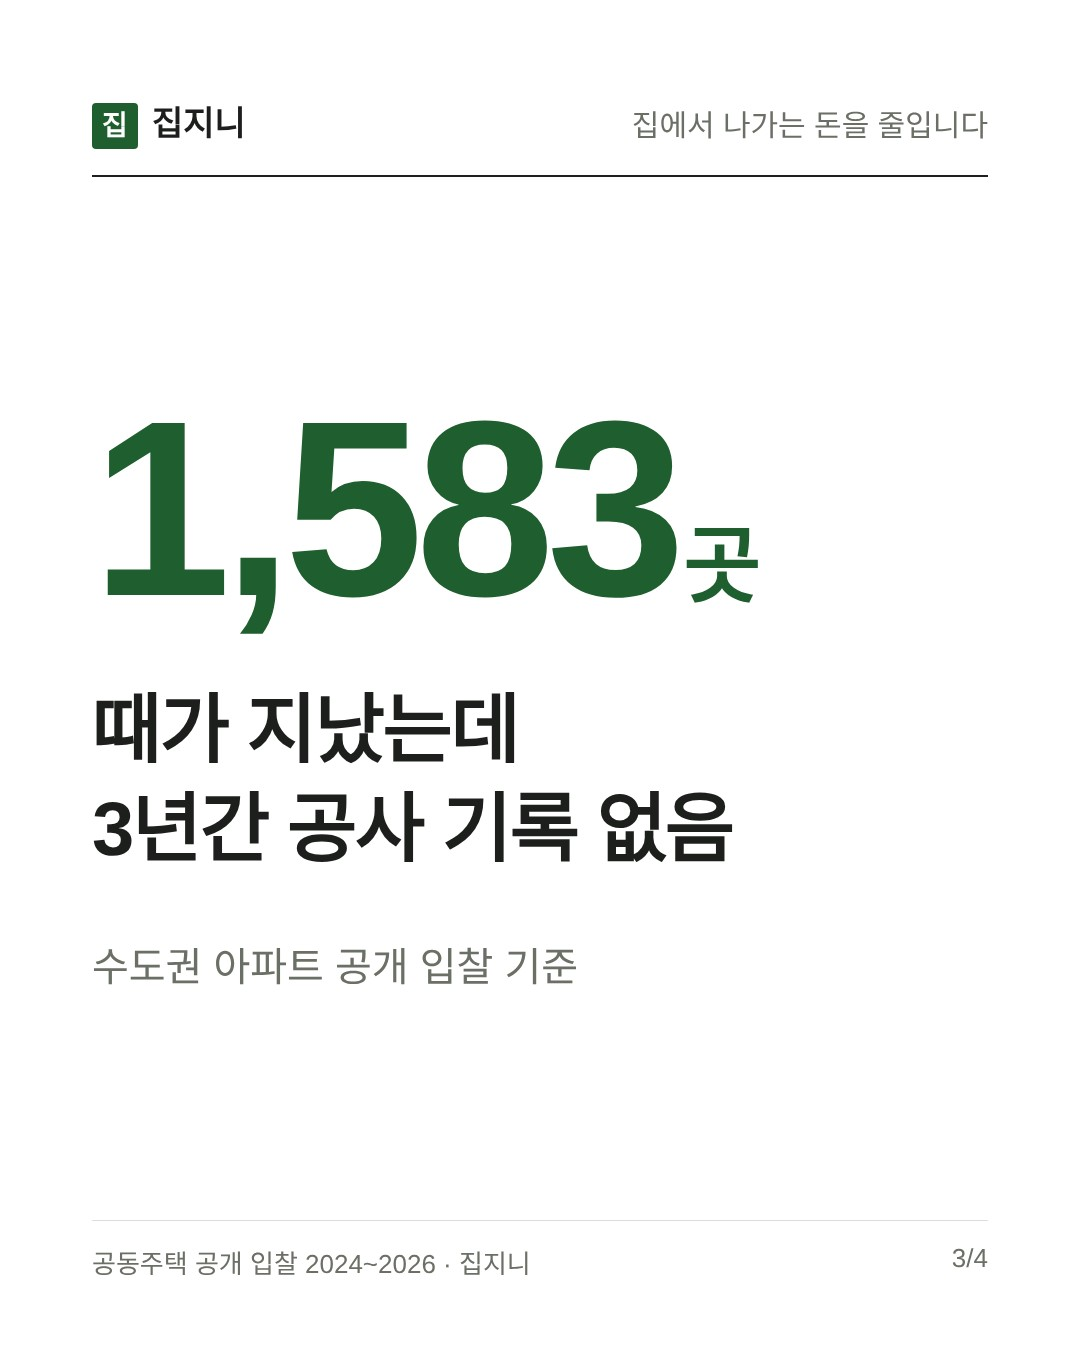
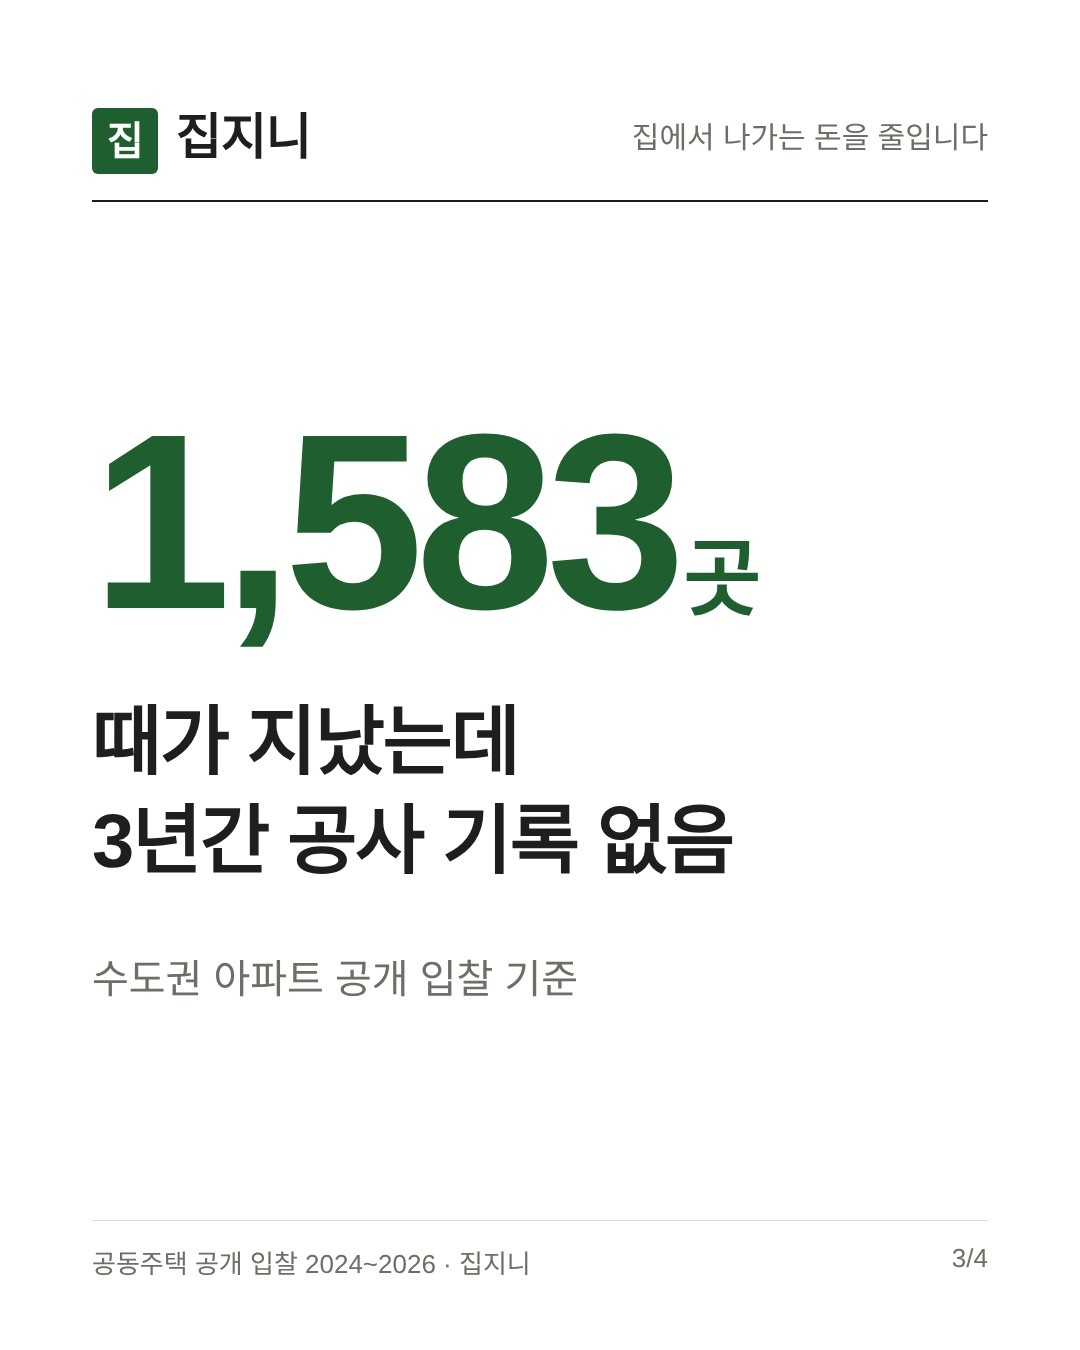
마케팅: 로고 크게 + jipjini.com 병기(카드·영상), 검수 규칙 고침 (#377)
Claude-Session: https://claude.ai/code/session_01EWAutn6yu8RhtVwgyvFZah

diff --git a/tools/mk/video/src/Maru.tsx b/tools/mk/video/src/Maru.tsx
@@ -41,8 +41,8 @@ const Punch: React.FC<{children: React.ReactNode; bg: string}> = ({children, bg}
 };
 
 const Brand: React.FC<{dark?: boolean}> = ({dark}) => (
-  <div style={{position: 'absolute', top: 120, left: 90, display: 'flex', alignItems: 'center', gap: 18, fontSize: 40, fontWeight: 700, color: dark ? '#fff' : INK}}>
-    <span style={{width: 60, height: 60, background: dark ? YEL : GREEN, color: dark ? INK : '#fff', borderRadius: 6, display: 'inline-flex', alignItems: 'center', justifyContent: 'center', fontSize: 36}}>집</span>집지니</div>
+  <div style={{position: 'absolute', top: 120, left: 90, display: 'flex', alignItems: 'center', gap: 22, fontSize: 64, fontWeight: 700, letterSpacing: -1, color: dark ? '#fff' : INK}}>
+    <span style={{width: 92, height: 92, background: dark ? YEL : GREEN, color: dark ? INK : '#fff', borderRadius: 6, display: 'inline-flex', alignItems: 'center', justifyContent: 'center', fontSize: 56}}>집</span>집지니</div>
 );
 const Foot: React.FC<{dark?: boolean; t: string}> = ({dark, t}) => (
   <div style={{position: 'absolute', bottom: 150, left: 90, right: 90, fontSize: 32, color: dark ? '#A9AEA5' : '#6B7067'}}>{t}</div>
@@ -197,7 +197,10 @@ export const Maru: React.FC = () => {
     {f >= T.cta + 15 && <div style={{position: 'absolute', left: 90, top: 640}}>
       <Pop at={T.cta + 15} size={170}>우리 집은</Pop>
       <div style={{fontSize: 190, fontWeight: 700, letterSpacing: -4, lineHeight: 1.08}}><Hit at={T.cta + 30} color={LIME} pre={false}>얼마?</Hit></div>
-      <div style={{marginTop: 70, fontSize: 64, fontWeight: 700, color: '#fff', borderBottom: `8px solid ${LIME}`, display: 'inline-block', paddingBottom: 10}}><Type t="집지니" at={T.cta + 45} /></div></div>}
+      <div style={{marginTop: 80, display: 'flex', alignItems: 'center', gap: 34, transform: `scale(${interpolate(f - T.cta - 45, [0, 8], [0.6, 1], {extrapolateLeft: 'clamp', extrapolateRight: 'clamp', easing: Easing.out(Easing.back(2))})})`, transformOrigin: 'left center', opacity: f >= T.cta + 45 ? 1 : 0}}>
+        <span style={{width: 190, height: 190, background: YEL, color: INK, borderRadius: 16, display: 'inline-flex', alignItems: 'center', justifyContent: 'center', fontSize: 120, fontWeight: 700}}>집</span>
+        <div><div style={{fontSize: 170, fontWeight: 700, color: '#fff', letterSpacing: -5, lineHeight: 1}}>집지니</div>
+        <div style={{marginTop: 18, fontSize: 66, fontWeight: 700, color: LIME}}>jipjini.com</div></div></div></div>}
     <Foot dark t="84㎡ 수도권 2,026개 단지 가운데값 · 턴키는 추정 · 부가세 10% 별도" />
     <Flash at={hits} />
     <div style={{position: 'absolute', top: 0, left: 0, height: 12, width: `${(f / T.end) * 100}%`, background: LIME}} />
@@ -210,6 +213,6 @@ export const Maru: React.FC = () => {
     {A(T.save - 4, 'whoosh_b', 0.45)}{A(T.save + 15, 'chips', 0.7)}{A(T.save + 25, 'chips2', 0.5)}{A(T.save + 45, 'drop808', 0.5)}{A(T.save + 45, 'm_woo', 0.9)}
     {A(T.car - 2, 'carhorn', 0.55)}{A(T.maru - 4, 'whoosh_c', 0.55)}{A(T.maru, 'm_gah', 1)}{A(T.maru + 15, 'm_hehe', 1)}
     {A(T.cta - 8, 'tapestop', 0.5)}{A(T.cta + 15, 'pluck', 0.6)}{A(T.cta + 30, 'thud', 0.9)}{A(T.cta + 30, 'qup', 0.55)}
-    {[2, 4, 6].map((k, i) => <React.Fragment key={'u' + k}>{A(T.cta + 45 + k, ['key2', 'key1', 'key3'][i % 3], 0.35)}</React.Fragment>)}
+    {A(T.cta + 45, 'reveal', 0.6)}
   </AbsoluteFill>;
 };

diff --git a/tools/mk/cards.py b/tools/mk/cards.py
@@ -19,7 +19,7 @@ body{{width:1080px;height:1350px;background:#fff;color:#1C1F1B;font-family:P,san
 .m{{flex:1;display:flex;flex-direction:column;justify-content:center;padding-bottom:150px}}
 .hook{{background:#1C1F1B;color:#fff}} .hook .top{{border-color:#fff;color:#B9BDB5}} .hook .top b{{color:#fff}} .hook .h em{{color:#7FC98B}} .hook .s{{color:#C9CCC5}} .hook .foot{{color:#9BA097;border-color:#3A3E38}}
 .top{{display:flex;justify-content:space-between;align-items:center;font-size:30px;color:#6B7067;border-bottom:2px solid #1C1F1B;padding-bottom:26px}}
-.top b{{color:#1C1F1B;font-size:34px}} .top b i{{font-style:normal;display:inline-block;width:46px;height:46px;line-height:46px;text-align:center;background:#1F5E2E;color:#fff;border-radius:4px;margin-right:14px;font-size:28px;vertical-align:middle}}
+.top b{{color:#1C1F1B;font-size:50px;letter-spacing:-1px}} .top b i{{font-style:normal;display:inline-block;width:66px;height:66px;line-height:66px;text-align:center;background:#1F5E2E;color:#fff;border-radius:6px;margin-right:18px;font-size:40px;vertical-align:middle}}
 .h{{font-size:128px;line-height:1.2;font-weight:700;letter-spacing:-4px}}
 .h em,.t em{{font-style:normal;color:#1F5E2E}}
 .s{{font-size:40px;line-height:1.6;color:#6B7067;margin-top:56px}}
@@ -35,7 +35,11 @@ body{{width:1080px;height:1350px;background:#fff;color:#1C1F1B;font-family:P,san
 .bar.g div i{{background:#1F5E2E}} .bar.g p b{{color:#1F5E2E}}
 .foot{{position:absolute;left:92px;right:92px;bottom:70px;display:flex;justify-content:space-between;font-size:26px;color:#6B7067;border-top:1px solid #DCDFD8;padding-top:22px}}
 
-.url{{align-self:flex-start;display:inline-block;margin-top:70px;font-size:52px;font-weight:700;border-bottom:6px solid #1F5E2E;padding-bottom:8px}}
+/* 2026-11-28 대표 「집지니 너무 작잖아! 항상 로고는 크게 + 사이트 주소 병기」 */
+.logo{{display:flex;align-items:center;gap:30px;margin-top:80px}}
+.logo i{{font-style:normal;display:block;width:150px;height:150px;line-height:150px;text-align:center;background:#1F5E2E;color:#fff;border-radius:12px;font-size:92px;font-weight:700}}
+.logo b{{display:block;font-size:128px;line-height:1;letter-spacing:-4px}}
+.logo span{{display:block;margin-top:14px;font-size:50px;font-weight:700;color:#1F5E2E;letter-spacing:0}}
 /* 2026-11-28 대표 「글만 있는 것보다 배경 화면이나 이미지 등 다르게, 최신식으로 계속 변경하면서」 */
 .t-paper .c{{background:#F3EFE6}} .t-paper .hook{{background:#F3EFE6;color:#1C1F1B}} .t-paper .hook .top{{border-color:#1C1F1B;color:#6B7067}} .t-paper .hook .top b{{color:#1C1F1B}} .t-paper .hook .h em{{color:#1F5E2E}} .t-paper .hook .s{{color:#6B7067}}
 .t-yellow .hook{{background:#FFD43B;color:#1C1F1B}} .t-yellow .hook .top{{border-color:#1C1F1B;color:#3A3E38}} .t-yellow .hook .top b{{color:#1C1F1B}} .t-yellow .hook .h em{{color:#1C1F1B;background:#fff;padding:0 10px}} .t-yellow .hook .s{{color:#3A3E38}} .t-yellow .hook .foot{{color:#3A3E38;border-color:#1C1F1B}}
@@ -79,7 +83,7 @@ def slide(x, i, n):
     elif k == "bill":
         body = f'<div class="t" style="margin:0 0 40px">{hl(x.get("t", ""))}</div><div class="billbox"><h4>관리비 고지서</h4>' + "".join(f'<div class="{"hi" if j == x.get("hi") else ""}"><span>{E(a)}</span><span>{E(b)}</span></div>' for j, (a, b) in enumerate(x["rows"])) + f'</div><div class="s">{hl(x.get("s", ""))}</div>'
     elif k == "cta":
-        body = f'<div class="h">{hl(x.get("t", "우리 단지는?"))}</div><div class="s">{hl(x.get("s", "아파트 검색하면 우리 집 공사비가 바로 나와요"))}</div><span class="url">{E(x.get("url", "집지니"))}</span>'
+        body = f'<div class="h">{hl(x.get("t", "우리 단지는?"))}</div><div class="s">{hl(x.get("s", "아파트 검색하면 우리 집 공사비가 바로 나와요"))}</div><div class="logo"><i>집</i><div><b>집지니</b><span>jipjini.com</span></div></div>'
     else:
         body = f'<div class="h">{hl(x.get("t", ""))}</div><div class="s">{hl(x.get("s", ""))}</div>'
     bg = ""

diff --git a/tools/mk/check.py b/tools/mk/check.py
@@ -1,6 +1,6 @@
 """집지니 마케팅 팀 ④ 검수 — 통과(PASS) 못 하면 올라가지 않는다.
 쓰임: python3 tools/mk/check.py mk/queue/<주>.json   (실패 시 종료 코드 1, 무엇이 왜 틀렸는지 줄마다)
-규칙: 숫자는 mk/facts.json 에 있는 것만 · 공사비 글은 「부가세 10% 별도」 · 이모지·과장 금지어 없음 · 길이 · 카드 3~7장(첫 장 hook, 끝 장 cta) · 링크는 jipjini.com(내부용) · 글·카드엔 주소 대신 「집지니」만 · 사진 파일 있음"""
+규칙: 숫자는 mk/facts.json 에 있는 것만 · 공사비 글은 「부가세 10% 별도」 · 이모지·과장 금지어 없음 · 길이 · 카드 3~7장(첫 장 hook, 끝 장 cta) · 링크는 jipjini.com(내부용) · 글·카드엔 「집지니 jipjini.com」(뒤 경로 금지) · 사진 파일 있음"""
 import json, re, sys, os, pathlib
 ROOT = pathlib.Path(__file__).resolve().parents[2]
 BAN = ["보장합니다", "최저가 보장", "무조건 싸", "100%", "업계 1위"]   # 2026-11-28 대표 「헐 미친 대박 등 … 더욱더 쌔고 자극적으로」 — 감탄·병맛은 허용, 사실을 장담하는 말만 막음
@@ -26,7 +26,7 @@ def main(qf):
         if not it.get("스레드") or len(it["스레드"]) > 450: bad.append(f"{i}: 스레드 글 없음 또는 450자 넘음")
         if not str(it.get("링크", "")).startswith("https://jipjini.com"): bad.append(f"{i}: 링크는 jipjini.com 깊은 쪽으로")
         shown = " ".join([it.get("본문", ""), it.get("스레드", "")] + [str(c.get("url", "")) for c in cs])
-        if re.search(r"jipjini\.com|https?://", shown): bad.append(f"{i}: 글·카드에 주소 노출 — 「집지니」로만 (2026-11-28 대표)")
+        if re.search(r"jipjini\.com/\S|https?://", shown): bad.append(f"{i}: 주소는 jipjini.com 까지만 — /apt 같은 뒤쪽 경로 금지 (2026-11-28 대표)")
         extra = sorted(n for n in nums(txt) - allow if not re.fullmatch(r"\d{1,2}", n) or int(n) > 12)
         if extra: bad.append(f"{i}: 소재에 없는 숫자 {extra} — facts.json 숫자만 쓴다")
         for w in BAN:

diff --git a/.claude/agents/jj-writer.md b/.claude/agents/jj-writer.md
@@ -18,6 +18,6 @@ tools: Bash, Read, Write, Edit
 - 한 주 7편에 같은 첫 장 종류를 세 번 넘게 쓰지 않는다. 그림을 Read 로 직접 열어 글씨 겹침을 확인.
 
 ## 끝 카드·주소 규칙 (2026-11-28 대표)
-- 주소(jipjini.com/apt 등)는 글·카드·영상 어디에도 쓰지 않는다. 「집지니」로만. (링크 칸은 내부용으로만 둠)
+- 로고는 항상 크게 + 사이트 주소 「jipjini.com」 병기(끝 카드·영상 끝 화면). /apt 같은 뒤쪽 경로는 쓰지 않는다. (링크 칸은 내부용으로만 둠)
 - 행동 문장은 「무엇을 하면 → 무엇이 나온다」가 한 번에 이해되는 완결 문장으로. 예: 「아파트 검색하면 우리 집 공사비가 바로 나와요」.
   금지: 「아파트 이름만 넣으면 30초」(무엇이 30초인지 없음), 「단지 이름 → 누수 위험 점검」 같은 화살표 토막말.

diff --git a/tools/mk/video/읽어주세요.md b/tools/mk/video/읽어주세요.md
@@ -26,3 +26,6 @@
 - 핵심 4곳은 밈 원본: 「3,964만 원?」=바인 붐(m_vine) · 새 금액=천사 「아~」(m_ah) · 1,189만 원=「우~ 예 베이비」(m_woo) · 마티즈=「가 데엠」(m_gah) · 긔긔=클래시 로얄 「헤헤헤하」(m_hehe).
   출처: github.com/AVTAVANTTOUT2/meme-sound-effects (밈 효과음 모음). 노래 조각(배드 투 더 본 등)은 콘텐츠 아이디 걸릴 수 있어 안 씀.
 - 끝 화면 주소는 「집지니」만.
+
+## v8 (2026-11-28 대표 「집지니 너무 작잖아! 항상 로고는 크게 + 사이트 주소 병기」)
+- 위쪽 로고 1.5배, 끝 화면은 큰 로고(집 마크 190px · 집지니 170px) + jipjini.com. /apt 같은 뒤 경로는 쓰지 않음.
